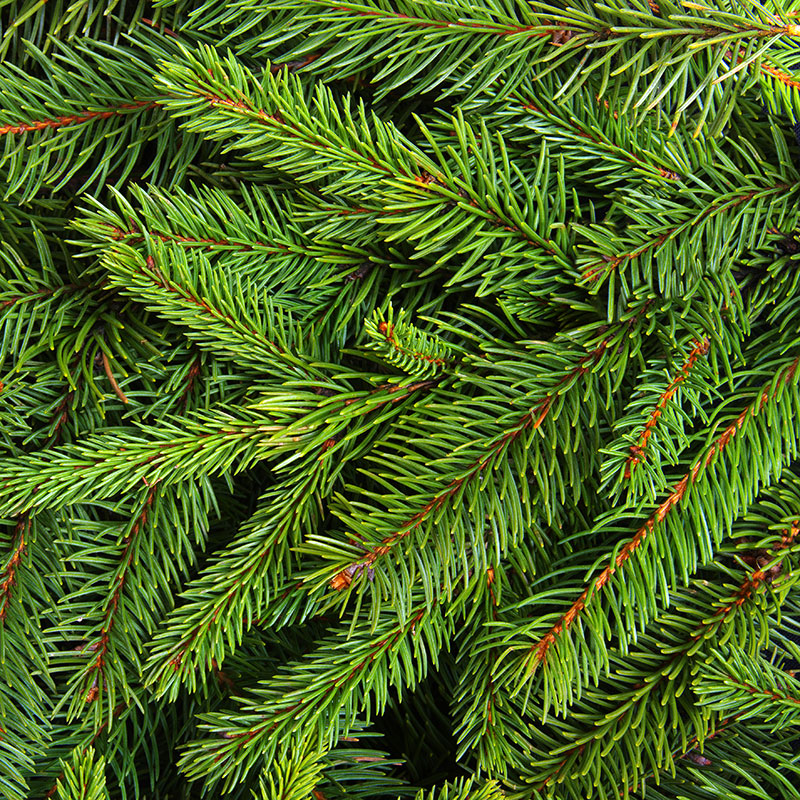
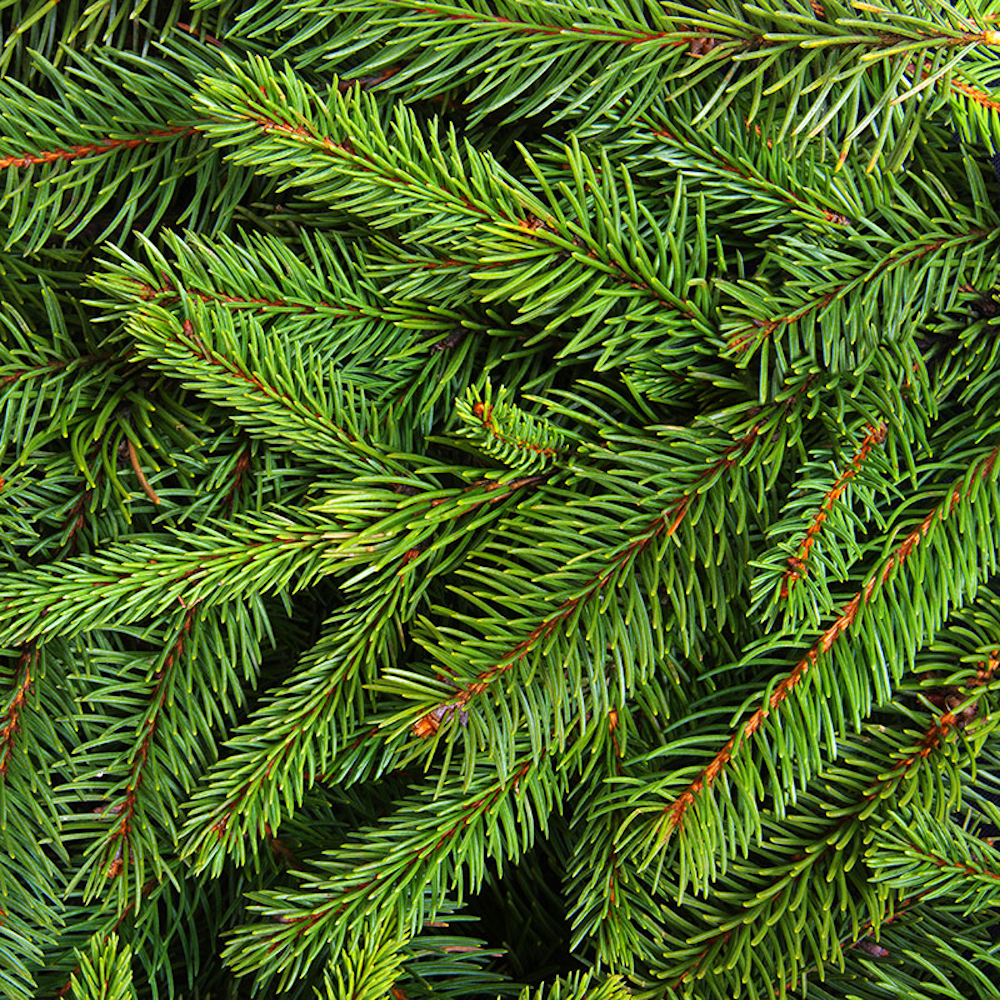
upload_picture.dart

diff --git a/lib/screens/bingo/bingo_hard_mode.dart b/lib/screens/bingo/bingo_hard_mode.dart
@@ -37,6 +37,7 @@ class _BingoHardMode extends State<BingoHardMode> {
 
   late String question;
   late int challengeId;
+  late int points;
 
   @override
   void initState() {
@@ -64,6 +65,7 @@ class _BingoHardMode extends State<BingoHardMode> {
       Map<String, dynamic> data;
       if (widget.challengeId != null) {
         data = await helpMethodsHttp.getStartedQuestion(widget.challengeId!);
+        print(data);
       } else {
         data = await helpMethodsHttp.getOrCreateBingoChallenge(widget.typeOfBingo, 'HARD');
         //data = await helpMethodsHttp.getNewQuestionOnId();
@@ -72,6 +74,7 @@ class _BingoHardMode extends State<BingoHardMode> {
       setState(() {
         question = data['description'];
         challengeId = data['id'];
+        //points = data['points'];
       });
 
       await setSpecificQuestions();
@@ -225,7 +228,7 @@ class _BingoHardMode extends State<BingoHardMode> {
                               //final File? file = await getAssetFile('assets/gran.png');
 
                               final File assetFile = await getAssetFile('assets/gran.png');
-                              final compressedXFile = await FlutterImageCompress.compressAndGetFile(assetFile.path, '${assetFile.path}_comp.jpg', quality: 70);
+                              final compressedXFile = await FlutterImageCompress.compressAndGetFile(assetFile.path, '${assetFile.path}_comp.jpg', quality: 85);
                               final File file = File(compressedXFile!.path);
 
                               bool success = false;
@@ -249,10 +252,6 @@ class _BingoHardMode extends State<BingoHardMode> {
                               }
                             }
                             },
-
-
-
-                          //onTap: () => handleImageAction(0, fromGallery: true),
 
                           borderRadius: BorderRadius.circular(15),
                           child: Container(
@@ -279,11 +278,11 @@ class _BingoHardMode extends State<BingoHardMode> {
                           onTap: () async {
 
                             if (images[1] == null){
-                              //final File? file = await CameraService.takePicture();
+                              final File? file = await CameraService.takePicture();
 
-                              final File assetFile = await getAssetFile('assets/gran.png');
-                              final compressedXFile = await FlutterImageCompress.compressAndGetFile(assetFile.path, '${assetFile.path}_comp.jpg', quality: 50);
-                              final File file = File(compressedXFile!.path);
+                              //final File assetFile = await getAssetFile('assets/gran.png');
+                              //final compressedXFile = await FlutterImageCompress.compressAndGetFile(assetFile.path, '${assetFile.path}_comp.jpg', quality: 85, minWidth: 1000);
+                              //final File file = File(compressedXFile!.path);
 
                               bool success = false;
                               String? type;
@@ -479,6 +478,7 @@ class _BingoHardMode extends State<BingoHardMode> {
                               },
                               child: Text('Klar', style: Theme.of(context).textTheme.headlineMedium),
                             ),
+
                             ElevatedButton(
                               onPressed: () {
                                 Navigator.pop(context);
@@ -612,6 +612,24 @@ class _BingoHardMode extends State<BingoHardMode> {
       actionsAlignment: MainAxisAlignment.center,
       content: const Text(
         'Bra jobbat! Bilden har sparats.',
+        textAlign: TextAlign.center,
+      ),
+      actions: [
+        ElevatedButton(
+          onPressed: () {
+            Navigator.pop(context);
+          },
+          child: Text('Okej', style: Theme.of(context).textTheme.bodyMedium),
+        ),
+      ],
+    );
+  }
+
+  AlertDialog finishedChallengeDialog() {
+    return AlertDialog(
+      actionsAlignment: MainAxisAlignment.center,
+      content: const Text(
+        'Bra jobbat! ',
         textAlign: TextAlign.center,
       ),
       actions: [

diff --git a/lib/services/upload_picture.dart b/lib/services/upload_picture.dart
@@ -48,6 +48,11 @@ class UploadPicture {
     try {
       //Vänta på att bilden laddas upp och få tillbaka URL:en
       final imageObjectKey = await sendPictureToGoogleStorage(imageFile);
+      print(imageObjectKey);
+      print(jwtToken);
+
+      targetType = targetType.toUpperCase();
+      pictureMode = pictureMode.toUpperCase();
 
       if (imageObjectKey != null) {
 
@@ -55,15 +60,15 @@ class UploadPicture {
       final response = await http.post(
         Uri.parse('https://group-6-15.pvt.dsv.su.se/pictures'),
         headers: {
-          'Content-Type': 'application/json',
           'Authorization': 'Bearer $jwtToken',
+          'Content-Type': 'application/json',
         },
 
         body: jsonEncode({
           'imageObjectKey': imageObjectKey,
-          'targetType': targetType,
           'pictureMode': pictureMode,
-          "challengeId": challengeId,
+          'targetType': targetType,
+          'challengeId': challengeId,
 
         }),
       );

diff --git a/lib/screens/bingo/bingo_easy_mode.dart b/lib/screens/bingo/bingo_easy_mode.dart
@@ -48,7 +48,6 @@ class _BingoEasyMode extends State<BingoEasyMode> {
       getPictures();
 
       List<dynamic> pictures = await helpMethodsHttp.getPictures();
-      debugPrint('DEBUG: $pictures');
 
     } catch (e) {
       debugPrint('Initieringsfel: $e');
@@ -60,6 +59,7 @@ class _BingoEasyMode extends State<BingoEasyMode> {
       Map<String, dynamic> data;
       if (widget.challengeId != null) {
         data = await helpMethodsHttp.getStartedQuestion(widget.challengeId!);
+        print(data);
       } else {
         data = await helpMethodsHttp.getOrCreateBingoChallenge(widget.typeOfBingo, 'EASY');
       }
@@ -80,7 +80,6 @@ class _BingoEasyMode extends State<BingoEasyMode> {
   void getPictures() async {
     try {
       Map<String, dynamic> response = await helpMethodsHttp.getPicturesForChallenge(challengeId);
-      debugPrint('Hämtade bilder: $response');
 
       if (response.containsKey('tasks')) {
         List<dynamic> tasks = response['tasks'];
